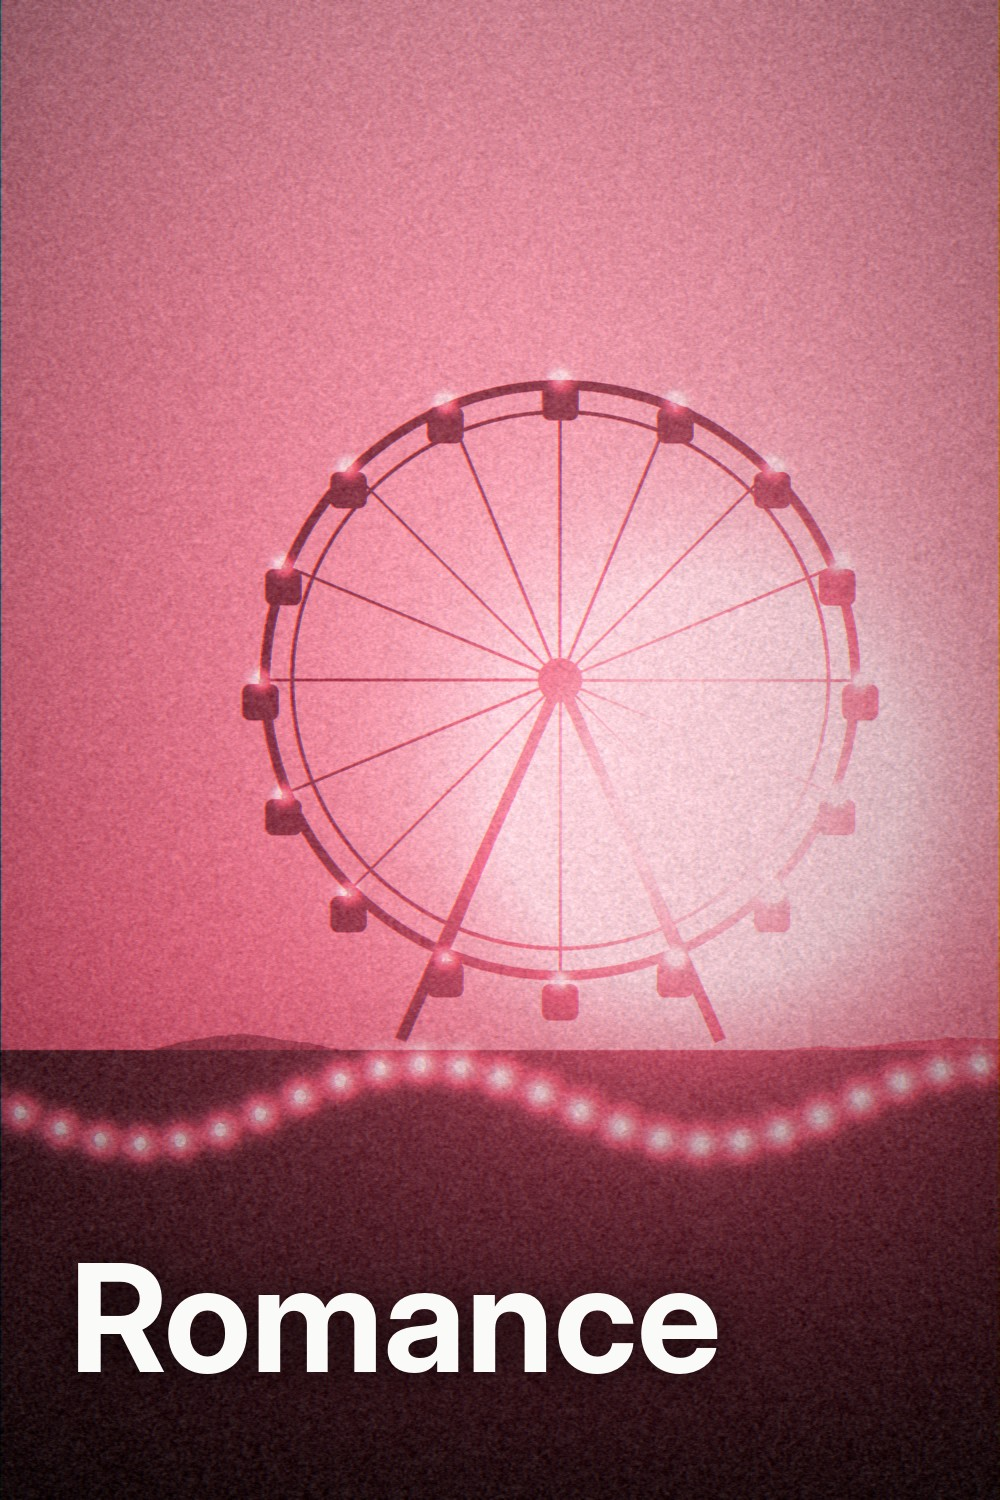
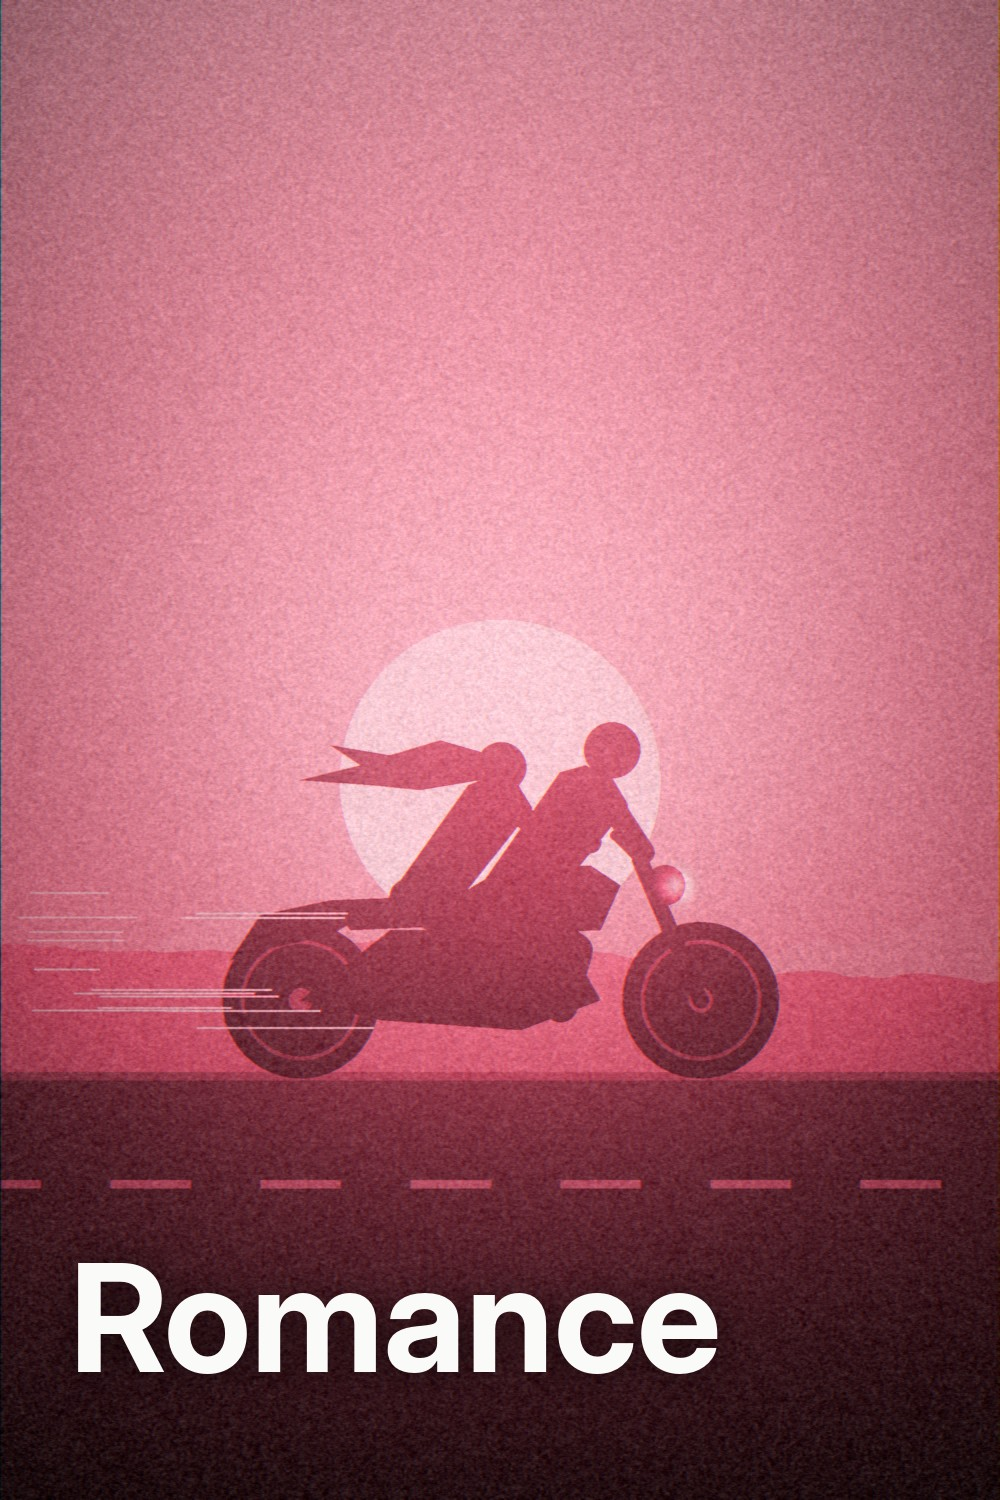
Romance cover: couple on a motorcycle at sunset
Claude-Session: https://claude.ai/code/session_01QCZ3TK7dTBUS2XhTrPNn6u

Changed region(s): [[0.0, 0.2453, 1.0, 0.7973], [0.403, 0.7667, 0.496, 0.7973]]

diff --git a/tools/make_color_genres.py b/tools/make_color_genres.py
@@ -424,30 +424,48 @@ def sc_international(seed):
 
 
 def sc_romance(seed):
-    c = C((190, 90)); r = R(seed)
-    c.glow(700, 800, 140, .7); c.glow(700, 800, 400, .25)
-    c.ridge(1030, 20, seed, 60, .5)
-    # ferris wheel
-    cx, cy, rad = 560, 680, 300
-    c.d.ellipse([(cx - rad) * S, (cy - rad) * S, (cx + rad) * S, (cy + rad) * S], outline=30, width=10 * S)
-    c.d.ellipse([(cx - rad + 30) * S, (cy - rad + 30) * S, (cx + rad - 30) * S, (cy + rad - 30) * S], outline=30, width=4 * S)
-    for k in range(16):
-        a = k / 16 * 2 * math.pi
-        x, y = cx + rad * math.cos(a), cy + rad * math.sin(a)
-        c.line([(cx, cy), (x, y)], 30, 3)
-        c.d.rounded_rectangle([(x - 18) * S, (y + 4) * S, (x + 18) * S, (y + 40) * S], radius=8 * S, fill=30)
-        c.line([(x, y), (x, y + 6)], 30, 3)
-        c.glow(x, y, 7, .5)
-    c.line([(cx, cy), (cx - 160, 1040)], 30, 12); c.line([(cx, cy), (cx + 160, 1040)], 30, 12)
-    c.ell([cx - 22, cy - 22, cx + 22, cy + 22], 30)
-    # string of lights
-    pts = [(x, 1100 + 40 * math.sin(x / 90)) for x in np.arange(-20, W + 20, 8)]
-    c.line(pts, 30, 2)
-    for x, y in pts[::5]: c.ell([x - 5, y - 2, x + 5, y + 10], 250); c.glow(x, y + 4, 12, .35)
-    c.rect([0, 1050, W, H], 25)
-    c.d.polygon(c.P(pts + [(W + 20, 1050), (-20, 1050)]), fill=25)
-    for x, y in pts[::5]: c.ell([x - 5, y - 2, x + 5, y + 10], 250); c.glow(x, y + 4, 12, .35)
-    return c.finish()
+    c = C((200, 110)); r = R(seed)
+    c.glow(500, 780, 300, .25)
+    c.ell([340, 620, 660, 940], 235)
+    c.ridge(900, 50, seed, 150, .55); c.ridge(975, 35, seed + 1, 105, .5)
+    c.rect([0, 1075, W, H], 40)
+    c.rect([0, 1072, W, 1080], 70)
+    D = 18
+    def limb(pts, w):
+        c.line(pts, D, w)
+        for x, y in pts: c.ell([x - w / 2, y - w / 2, x + w / 2, y + w / 2], D)
+    # wheels
+    for wx in (300, 700):
+        c.ell([wx - 78, 1000 - 78, wx + 78, 1000 + 78], D)
+        c.d.ellipse([(wx - 60) * S, 940 * S, (wx + 60) * S, 1060 * S], outline=55, width=4 * S)
+        c.ell([wx - 12, 988, wx + 12, 1012], 60)
+    # frame, fender, engine, tank, seat, fork, bars, light
+    c.poly([(230, 960), (260, 915), (330, 900), (380, 905), (330, 935), (260, 950)], D)
+    c.poly([(300, 1000), (390, 930), (560, 930), (600, 1000), (520, 1030), (380, 1020)], D)
+    c.poly([(450, 900), (500, 870), (590, 865), (620, 885), (600, 930), (470, 935)], D)
+    c.poly([(330, 900), (460, 895), (470, 925), (350, 930)], D)
+    limb([(700, 1000), (640, 860)], 16)
+    limb([(640, 860), (615, 835)], 10)
+    c.ell([645, 865, 685, 905], D); c.glow(675, 885, 10, .6)
+    limb([(330, 1015), (230, 1020)], 12)  # exhaust
+    # rider
+    limb([(500, 895), (575, 950), (560, 1005)], 34)          # leg
+    c.poly([(462, 912), (548, 905), (628, 805), (612, 778), (585, 765), (560, 772)], D)  # torso, leaning forward
+    c.ell([584, 722, 640, 778], D)                            # helmet
+    limb([(605, 795), (642, 852)], 24)            # arm to bars
+    # passenger
+    limb([(405, 895), (470, 945), (455, 1000)], 30)
+    c.poly([(378, 912), (455, 905), (532, 808), (518, 785), (492, 775), (468, 785)], D)
+    c.ell([476, 742, 526, 792], D)                            # head
+    hair = [(482, 752), (440, 740), (390, 755), (330, 745), (360, 765), (300, 780), (370, 785), (420, 790), (480, 780)]
+    c.poly(hair, D)
+    limb([(510, 805), (562, 850), (590, 842)], 22)            # arm around rider
+    # motion streaks + road dashes
+    for _ in range(14):
+        y = r.uniform(880, 1060); x = r.uniform(0, 200); l = r.uniform(60, 180)
+        c.line([(x, y), (x + l, y)], 200, 2)
+    for x in np.arange(-40, W, 150): c.rect([x, 1180, x + 80, 1188], 120)
+    return fog(c.finish(), seed, .45, .2)
 
 
 def sc_scifi(seed):
